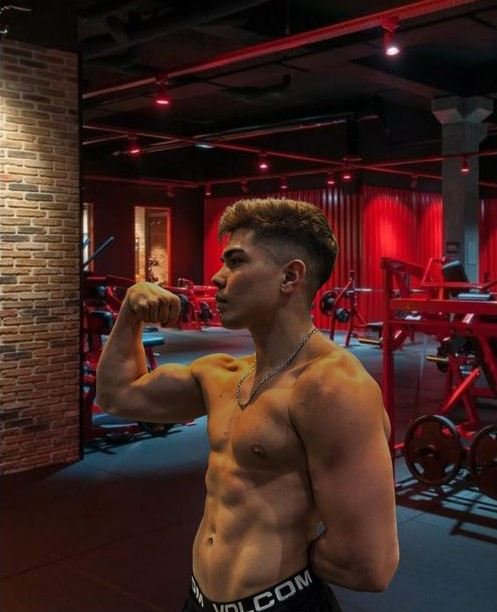
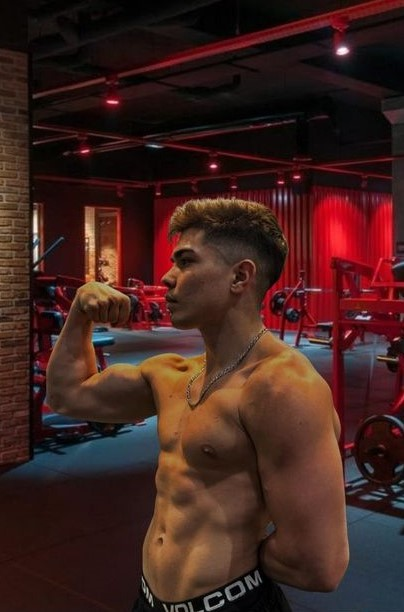
m

diff --git a/styles.css b/styles.css
@@ -109,7 +109,7 @@ body {
 
   @media (max-width: 767px) {
     .img-movil {
-       width: 90vh;
+       width: 100vh;
        height: auto;
        margin-left: -145px;
        
@@ -118,7 +118,7 @@ body {
 
  @media (max-width: 767px) {
     .primera-imagen {
-       margin-top: -55px;
+       margin-top: -50px;
        
    }
  }
